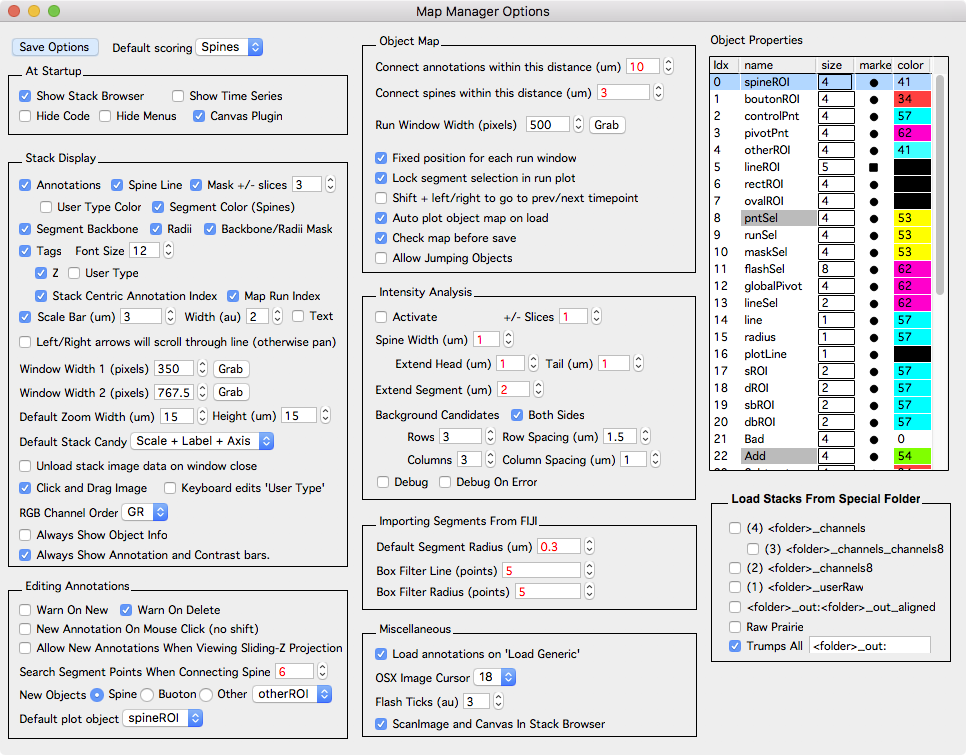
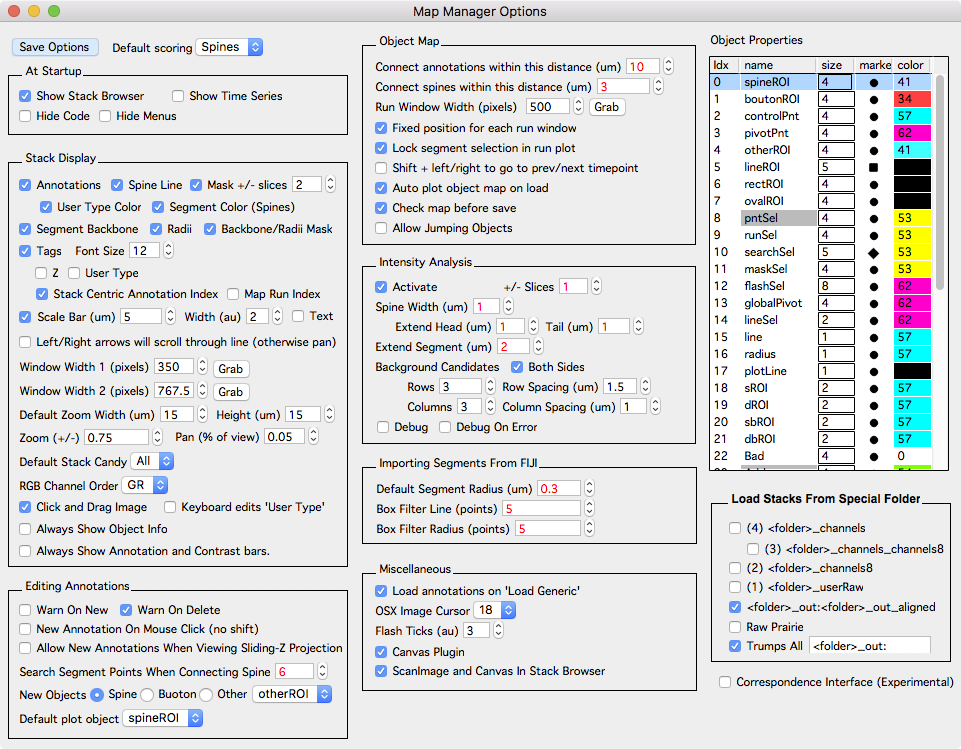
options etc etc

Changed region(s): [[0.0, 0.0, 0.999, 0.9826]]

diff --git a/_posts/2015-04-19-stack-browser.md b/_posts/2015-04-19-stack-browser.md
@@ -13,29 +13,29 @@ tags:
 <div class="print-page-break"></div>
 
  
-The stack browser is the main starting point for using Map Manager. The stack browser provides an interface to load and browse folders of .tif [stacks][3].
+The stack browser is the main starting point for using Map Manager. The stack browser provides an interface to load and browse folders of Tiff [stacks][3].
 
 Open the stack browser from the main menu 'MapManager &rarr; Stack Browser'.
 
-The list on the left is a list of loaded folders. Select a folder (on the left) and the list on the right will show the individual stacks within that folder.
+The list on the left is a list of loaded folders. Select a folder (on the left) and the list on the right will show the individual stacks within that folder. The stack list can be sorted by clicking on the column headers. The columns to display in the stack list can be set with a right-click on the column headers.
 
 To display a [stack][3]:
 
- - Right click the stack and select 'Display Stack'
- - Select the stack and hit <kbd>d</kbd> for 'D'isplay.
- - Double click a stack
+ - Double-click a stack
+ - Right-click the stack and select 'Display Stack'
+ - Select the stack and use keyboard <kbd>d</kbd> for 'D'isplay.
 
 ### Loading stacks
 
 #### Load Tiff Folder
 
-Load a folder of single channel .tif files from hard-drive. If these .tif files have been converted with one of the [Map Manager Fiji plugins][10], the voxel size, date, and time should be correctly set.
+Load a folder of single channel Tiff files from hard-drive. If these Tiff files have been converted with one of the [Map Manager Fiji plugins][10], the voxel size, date, and time should be correctly set.
 
 #### ScanImage Import - Load ScanImage Folder
 
-The **Load ScanImage Folder** loads a folder of ScanImage .tif stacks.
+The **Load ScanImage Folder** loads a folder of ScanImage Tiff stacks.
 
-<p class="important"><B>Important.</B> When importing ScanImage .tif files, the scale is not set by ScanImage. You need to calculate your x/y voxel size (in um per voxel) when you scan at 1x magnification with 1024 by 1024 pixels. You then set this value in '2p um/pixel (1024@1x)'. Map Manager will use this value to calculate each stacks x/y scale for arbitrary ScanImage zoom settings.</p>
+<p class="important"><B>Important.</B> When importing ScanImage Tiff files, the scale is not set by ScanImage. You need to calculate your x/y voxel size (in um per voxel) when you scan at 1x magnification with 1024 by 1024 pixels. You then set this value in '2p um/pixel (1024@1x)'. Map Manager will use this value to calculate each stacks x/y scale for arbitrary ScanImage zoom settings.</p>
 
 #### Canvas - Load Canvas
 
@@ -43,90 +43,89 @@ The **Load Canvas** load an entire canvas of an imaging session. The canvas incl
 
 #### Drag and drop
 
-A simple way to load a single stack is to drag and drop a .tif file onto the Igor program icon. Stacks opened with drag-and-drop will appear in a special folder named 'DragAndDrop'.
+A simple way to load a single stack is to drag and drop a Tiff file onto the Igor program icon. Stacks opened with drag-and-drop will appear in a special folder named 'DragAndDrop'.
 
 ### Displaying stacks
 
-Select a folder on the left and the stacks in that folder will be shown on the right.
+Select a folder on the left and the stacks in that folder will be shown on the right. The order of stacks can be sorted by selecting columns in the stack list. To sort by date, select 'Date' in the columns header. <b>This ordering is critical when batch importing a list of stacks into a Map Manager [time-series][time-series]</B>.
 
 #### Display a [stack][3]:
 
- - Double click a stack
- - Right click the stack and select 'Display Stack'
+ - Double-click a stack
+ - Right-click the stack and select 'Display Stack'
  - Select the stack and use keyboard <kbd>d</kbd> for 'D'isplay.
 
 #### Unload a [stack][3]:
 
-Once a stack is displayed, it will remain loaded until it is explicity unloaded with keyboard <kbd>u</kbd>. In this way displaying a stack is faster as the stack does not have to be re-loaded.
+Once a stack is opened and displayed in a [stack][stack] window, it will remain loaded until it is explicity unloaded with keyboard <kbd>u</kbd> or right-click 'Unload Stack'. 
 
-#### Sorting stacks
-
-The order of stacks can be sorted by selecting columns in the stack list. To sort by date, select 'Date' in the columns header. <b>This ordering is critical when batch importing a list of stacks into a Map Manager map</B>. 
-
-
-
-<IMG class="img-float-right" SRC="images/mm3/stack-browser/stack-browser-right-click-folder.png" WIDTH="200">
 
 ### Right-click a folder for a context menu
 
+Right-click a folder in the list on the left for a context menu that allows actions to be performed on all stacks in the folder.
+
+<IMG class="img-float-right" SRC="images/mm3/stack-browser/stack-browser-right-click-folder.png" WIDTH="200">
 
  - **Unload Folder**. Unload the folder and all its stacks.
+
+ - **Save Annotations (all stacks)**. Save the annotations for all 'dirty' stacks in a folder. Dirty stacks are stacks that have been changed or modified since they were loaded. Dirty stacks are noted in the stack list with a <font color="red"><strong>red</strong></font> background in the 'D' column.
 
  - **Stack Report (all stacks)**. Generate a stack [report][reports] for all stacks.
 
  - **Segment Report (all stacks)**. Generate a segment [report][reports] for all stacks.
 
- - **View Database (all stacks)**. Generate a table with all analysis. This can be copied and pasted into other programs for analysis.
-
- - **Intensity Analysis (all stacks)**. Analyze the intensity of all stacks in the folder. It is critical that each spine in the analysis is checked manually. Please see [Intensity Analysis][intensity].
-
- - **Save all stacks**. Will save the annotations for all 'dirty' stacks in a folder. Dirty stacks are stacks that have been changed or modified since they were loaded. Dirty stacks are noted in the stack list with a <font color="red"><strong>red</strong></font> background in the 'D' column.
+ - **Annotation Table (all stacks)**. Generate a table with all annotations for all stacks. This can be copied and pasted into other programs for analysis.
 
  - **Unload all stacks**. Unload the raw image data for all stacks in the list.
  
+ - **View Stack List**. Display the list of stacks as a table. This is useful to copy/paste to another program for analysis.
+ 
  - **Show Folder On Disk**. Open the hard-drive folder the folder was originally loaded from. This opens a Finder window on OSX and an Explorer window on Microsoft Windows.
 
- - **Refresh List**. To refresh the list of folders and the selected folder's list of stacks. This is generally not needed.
+ - **Refresh List**. To refresh the list of folders and the selected folder's list of stacks. This is generally not needed but can be useful to ensure stacks that have had their annotations edited (e.g. 'dirty' stacks) are show in red in their 'D' column.
 
 <div class="print-page-break"></div>
 
 
-<IMG class="img-float-right" SRC="images/mm3/stack-browser/sb-right-click-stack.png" WIDTH="160">
 
 ### Right-click a stack for a context menu
 
-Right-click a stack to open a contextual menu. These menu items can also be triggered using the indicated keyboard shortcuts.
+<IMG class="img-float-right" SRC="images/mm3/stack-browser/sb-right-click-stack.png" WIDTH="200">
+
+Right-click a stack to open a context menu. These menu items can also be performed using the indicated keyboard shortcuts.
 
  - **Display Stack**. Open a [stack][stack] window. Same as double-click.
 
+ - **Save Annotations**. Save stack annotations.
+ 
  - **Unload Stack**. Unload the raw data for a stack. <font color="red"><strong>Important</strong></font>, this unloads the raw data to conserve memory, it **DOES NOT** unload the stack annotations.
 
- - **Unload Stack DB**.
-
- - **Stack Info**.
+ - **Edit Stack Condition**. Edit the stack condition for the selected stack. The stack condition can also be edited with keyboard <kbd>c</kbd>. Stack conditions can be displayed in the stack list by right-clicking on the column headers and selecting 'Condition'.
+ 
+ - **Stack Info**. Open a stack info panel to view acquisition parameters for a stack. Use keyboard <kbd>shift</kbd>+<kbd>i</kbd> (that is 'i' as in Info) to views all acquisition parameters for a stack. Most acquisition parameters are read from the meta-data of the original stack. 
 
  - **Stack Report**.
 
  - **Segment Report**. Generate a segment report for all segments in a stack. See [reports][reports].
 
- - **View Database**. Open a text table with all annotations in the stack. This can be copied and pasted into other programs for analysis.
+ - **Annotation Table**. Open a text table with all annotations in the stack. This can be copied and pasted into other programs for analysis.
 
  - **Experimental - Segment Length Plot**. Make both 2D and 3D plots of segment length as a function of the Z-Smoothing parameter.
 
 <div class="print-page-break"></div>
 
 
-<IMG class="img-float-right" SRC="images/mm3/stack-browser/sb-right-click-header.png" WIDTH="160">
-
 ### Right-click headers in the stack list for a context menu
 
-This menu will toggle the columns that are displayed in the stack list. These setting are saved with the main Map MAnager Options.
+<IMG class="img-float-right" SRC="images/mm3/stack-browser/sb-right-click-header.png" WIDTH="145">
+
+This menu will toggle the columns that are displayed in the stack list. These setting are saved with the main Map Manager Options using the main menu 'MapManager - Save Options...'.
 
 <div class="print-page-break"></div>
 
 ### What is next?
 
-Once a folder of .tif stacks is loaded
+Once a folder of tif stacks is loaded
 
  - Start scoring single timepoint stacks following [annotating a stack][8]
  - Put the stacks into a time-series map following [making a map][9]
@@ -142,3 +141,6 @@ Once a folder of .tif stacks is loaded
 [8]: annotating-a-stack
 [9]: making-a-map
 [10]: fiji-plugins
+[stack]: stack
+[options]: stackdb-options-panel
+[time-series]: time-series-panel

diff --git a/_posts/2015-04-20-stackdb-options-panel.md b/_posts/2015-04-20-stackdb-options-panel.md
@@ -40,11 +40,10 @@ The options panel is opened from the main menu 'MapManager - Options'.
 
 Options to control the behavior of Map Manager when it first starts.
 
- - **Show Stack Browser**. Show the [stack browser][6] at startup.
+ - **Show Stack Browser**. Show the [stack browser][6] panel at startup.
  - **Show Time Series**. Show the [time-series][5] panel at startup.
- - **Hide Code**. Hide code at startup.
- - **Hide Menus**. (experimental) Hide extraneous menus at startup.
- - **Canvas Plugin**. Load the canvas plugin at startup. The canvas plugin is software to organize imaging sessions and is described in [canvas][canvas].
+ - **Hide Code**. Hide code windows at startup.
+ - **Hide Menus**. Hide extraneous Igor menus at startup.
 
 ### Stack Display
 
@@ -76,7 +75,7 @@ Options that control the display of annotations, tracings, and annotation tags i
  
  - **User Type**. Display annotation tags with an annotations user type.
  
- - **Stack centric annotation index**. Display annotation tags with the stack centric annotation index. Annotations are given an index within a stack in the order they are created. Deleting an annotation will result in all later annotations to have their annotation index decremented.
+ - **Stack Centric Annotation Index**. Display annotation tags with the stack centric annotation index. Annotations are given an index within a stack in the order they are created. Deleting an annotation will result in all later annotations to have their annotation index decremented.
  
  - **Map Run Index**. Display annotation tags with their map centric 'run' index.
  
@@ -88,7 +87,10 @@ Options that control the display of annotations, tracings, and annotation tags i
  
  - **Default Zoom Width/Height (um)**. The amount to zoom in on annotations in [stack][stack] and [run plots][run-plot]. This is used when an annotation is right-clicked and 'plot point/spine' or 'plot run' is selected.
 
-
+ - **Zoom (+/-)**. The fractional amount of the image to zoom at each step. Larger numbers will zoom more, smaller numbers will zoom less. Used when zooming an image with keyboard +/- or with ctrl + mouse-wheel.
+ 
+ - **Pan (% of view)**. The percent of the view to step when panning with keyboard arrow-kets. Larger numbers will pan more, smaller will pan less.
+ 
 <IMG class="img-float-right" SRC="images/mm3/options/options-stack-candy.png" WIDTH="150">
 
  - **Default Stack Candy**. Default window candy for each stack. These can be cycled in a stack window using keyboard shift+c.
@@ -98,15 +100,12 @@ Options that control the display of annotations, tracings, and annotation tags i
     - **Scale + Label**.
     - **Scale + Label + Axis**.
  
+ - **RGB Channel Order**. For multi-color images using RGB button in [buttons][buttons]. 
 
- - **Unload stack image data on window close**. If off (default), the stack image data will not be unloaded when a stack window is closed. If on, the stack image data will be unloaded.
- 
  - **Click and Drag Image**. If one, mouse click+drag will pan the stack image. If off, mouse click+drag will make an Igor selection.
  
  - **Keyboard edits 'User Type'**. If on, keyboard 0..9 will set the user type of a selected annotation. If off (default), keyboard 1-5 will set the color channel to display.
  
- - **RGB Channel Order**. For multi-color images using RGB button in [buttons][buttons]. 
-
  - **Always Show Object Info**. When checked, the object info panel will always be shown when opening a stack window. Within a stack window, the object info panel can always be toggled with keyboard 'i'.
 
  - **Always Show Annotation and Contrast Bars**. The annotation bar is toggled with keyboard '[' and the contrast bar with keyboard 'c'.
@@ -178,8 +177,9 @@ Only for spine annotations. Controls the parameters of spine intensity analysis.
      - **Rows and Row Spacing (um)**. Number of rows to consider and their spacing.
      - **Columns and Column Spacing (um)**. Number of columns to consider and their spacing.
 
- - **Debug**. Advanced use only.
 
+ - **Debug**. Advanced use only.
+ 
  - **Debug On Error**. Advanced use only.
 
   
@@ -192,8 +192,12 @@ Only for spine annotations. Controls the parameters of spine intensity analysis.
 
  - **Box Filter Line and Radius (points)**. On import, the backbone line fit is box filtered. This reduces jitter in z-image planes for segments running parallel to the image plane.
 
+<div class="print-page-break"></div>
+
 
 ### Miscellaneous
+
+<IMG class="img-float-right" SRC="images/mm3/options/options-misc.png" WIDTH="350">
 
  - **Load annotations on 'Load Generic'**. Try and load annotations from the 'stackdb' folder.
  
@@ -201,11 +205,13 @@ Only for spine annotations. Controls the parameters of spine intensity analysis.
  
  - **Flash Ticks**. A number that controls the speed that a point is flashed when selected. Smaller numbers are faster. Point flashing is used to make it easier to see where there is a point selection. See 'Object Properties - flashSel' to control the size, marker, and color of the point that is flashed.
 
+ - **Canvas Plugin**. Load the canvas plugin at startup. The canvas plugin is software to organize imaging sessions and is described in [canvas][canvas].
+
  - **ScanImage and Canvas In Stack Browser**. Show ScanImage and Canvas interface in stack browser.
- 
+
 ### Object Properties
 
-<IMG class="img-float-right" SRC="images/mm3/options/options-misc.png" WIDTH="275">
+<IMG class="img-float-right" SRC="images/mm3/options/options-object-properties.png" WIDTH="250">
 
 Use this table to set how annotations and lines are displayed. Right-click on 'marker' or 'color' to set. Double-click on 'size' to set. Note, 'size' is in arbitrary Igor centric units, generally between 1 and 10.
 
@@ -264,7 +270,7 @@ Use this table to set how annotations and lines are displayed. Right-click on 'm
 
 ### Load Stacks From Special Folder
 
-<IMG class="img-float-right" SRC="images/mm3/options/options-special-folder.png" WIDTH="300">
+<IMG class="img-float-right" SRC="images/mm3/options/options-special-folder.png" WIDTH="275">
 
 This is extremely experimental and only used by developers. If running into problems, turn off all these checkboxes. Each of the check boxes will redirect the loading of image stacks to different folders. In particular, the **channels8** option will load 8-bit versions which is useful to speed annotations of larger 16-bit images. See Fiji plugin [bConvertTo8Bit_v5_.py][7] to convert entire directories of tiff stacks to 8-bit.
 

diff --git a/_posts/2018-08-16-buttons.md b/_posts/2018-08-16-buttons.md
@@ -52,9 +52,16 @@ The stack tab controls [stack][stack] windows.
  - **Tracing**. Toggle the tracing on/off. This is useful to see portions of an image that might be obsured by annotations and to copy/paste raw images (without annotations) to other programs. The tracing can also be toggled with keyboard <kbd>t</kbd>.
  - **Pixel Intensity**. Toggle the display of pixel intensity. Pixel intensities are show in the lower-left of a stack window (yellow text) as the mouse cursor is moved over an image.
   - **Grid**. Toggle the display of a grid over a stack window. This is useful for scoring the number of annotations within a stack. The recipe is to annotate all objects within each square of the grid.
-  - **Candy**. Select the visual candy in a stack window. Options include: All, None, Scale, Scale + Label, Scale + Label + Axis. This can also be set in a stack window using keyboard <kbd>shift</kbd>+<kbd>c</kbd>. Where 'c' is for **C**andy.
-  - **Keyboard edits 'User Type'**. Toggle the editing of annotation user type with keyboard <kbd>0..9</kbd>. Normally these keystrokes will change the stack color channel display.
+  - **Candy**. Select the visual candy in a stack window. Options include: All, None, Scale, Scale + Label, Scale + Label + Axis. This can also be set in a stack window using keyboard <kbd>shift</kbd>+<kbd>c</kbd>.
+  - **Keyboard edits 'User Type'**. When on, keyboard <kbd>0..9</kbd> will set the User Type for a selected annotation. When off (default), keyboard will change the displayed stack color channel.
   - **Show 'User Type' in tag**. Toggle the display of user type in all annotation tags. More advances options can be set in the [Stack Legend][stack-legend] panel - tags section.
+  - **Nav Window and Zoom Window**. Open navigation and/or zoom window. See [stack][stack] for more information.
+  - **Stack Legend**. Open a panel to configure stack image labels, annotation tags, scale bar, and more. See [stack legend][stack-legend] for more information.
+  - **Export Movie**. Exports a stack as a Quicktime or AVI movie. Useful for making presentations.
+
+<IMG class="img-float-right" SRC="images/mm3/mm3-buttons-spine-line.png" WIDTH="350">
+
+  - **Spine Line Window**. Opens a new window and displays the pixel intensity profile and derivative of a spine from the connection point on the segment tracing to the spine head. The derivative is useful for setting a quantitative value for 'mushroom' spines. 
   
 <div class="print-page-break"></div>
 
@@ -63,7 +70,7 @@ The stack tab controls [stack][stack] windows.
 
 ### Obj Map Tab
 
-The Obj Map tab controls time-series [plots][map-plot].
+The Obj Map tab controls time-series [plots][map-plot] (e.g. map plots).
 
  - **Bad**. Toggle overlay of bad annotations. Bad annotations appear (by default) as white.
  - **Intensity Bad**. Toggle overlay of intensity bad annotations. Intensity bad annotations appear (by default) as white. Tagging annotations as intensity bad will ignore the intensity analysis for a given annotation but keep it in the annotation dynamics calculation.

diff --git a/_posts/2015-04-20-time-series-panel.md b/_posts/2015-04-20-time-series-panel.md
@@ -9,11 +9,11 @@ tags:
 ---
 
 
-The time-series panel provides an interface to load, save and browse Map Manager time-series (maps).
+The time-series panel provides an interface to create, edit, open, and save Map Manager time-series (maps).
 
 Open the time-series panel using the menu 'MapManager &rarr; Time Series'
 
-Loaded maps are listed on the left and when a map is selected, its time-points (stacks) are listed on the right.
+Loaded maps are listed on the left and when a map is selected, its time-points (stacks) are listed on the right. Double-click a map to display a [map plot][map-plot], likewise, double-click a stack to display a [stack][stack] window.
 
 <IMG class="img-float-center" SRC="images/mm3/time-series/ts-big.png" WIDTH="700">
 
@@ -23,7 +23,7 @@ Loaded maps are listed on the left and when a map is selected, its time-points (
 
  - **Open Map**. Open/Load a map from the hard-drive.
  - **Save Map**. Save selected map to hard-drive.
- - **Close Map**. Right click a map and select 'Close Map'.
+ - **Close Map**. Right-click a map and select 'Close Map'.
  
 <p class="important"><B>Opening Maps.</B> When opening a map, select the maps '.ipf' file. If a map is named 'mymap', load 'mymap.ipf'.
 </p>
@@ -63,7 +63,7 @@ Loaded maps are listed on the left and when a map is selected, its time-points (
 #### Right-click on a map name.
 
  - **Find Points**. Open [find points panel][15].
- - **Density Report**. Generate a density report for the map. See [reports][17].
+ - **Segment Report**. Generate a segment report for the map. See [reports][17].
  - **Dynamics Report**. Generate a dynamics report for the map. See [reports][17].
  - **Survival Report**. Generate a survival report for the map. See [reports][17].
  - **Export Map**. <span style="color:red">DO NOT USE</span> Exports a map to text files. Files are saved in the 'export/' folder.
@@ -167,5 +167,7 @@ Interface for advanced and internal debugging. In general there is no need to us
 [16]: map-pool
 [17]: reports
 [18]: intensity
+[stack]: stack
+[map-plot]: map-plot
 
 <div class="print-page-break"></div>

diff --git a/index.md b/index.md
@@ -18,15 +18,15 @@ Map Manager is software to annotate and analyze image volume time-series
 ### Features
 
 
-- Track 3D annotations in time-series images including dendritic spines, axonal boutons, cell bodies, and vascular branch points.
+- Track 3D annotations in time-series images including dendritic spines and cell bodies.
 - Semi-automatically identifies corresponding annotations between time-points.
 - Automatically aligns images between time-points.
-- Designed to work with any 3D/2D image volume including in vivo, ex vivo, and fixed tissue.
+- Designed to work with any 3D image volume including in vivo, ex vivo, and fixed tissue.
 
 ### Analysis
  - Track the dynamics of 3D annotations including persistence, addition, subtraction, and transient.
  - Trajectory analysis to track the motility of annotations.
- - ROI based neuronal spine intensity analysis.
+ - Neuronal spine intensity analysis.
 
 ### Gallery
 
